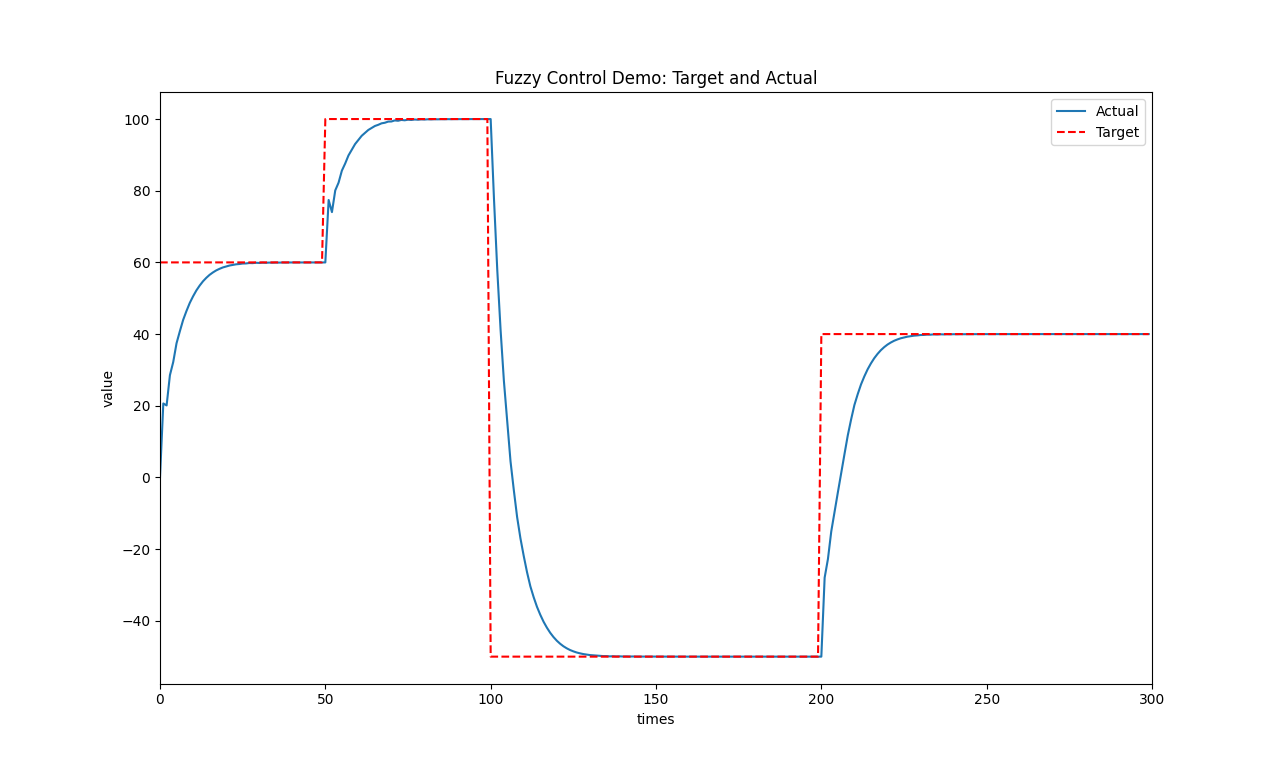
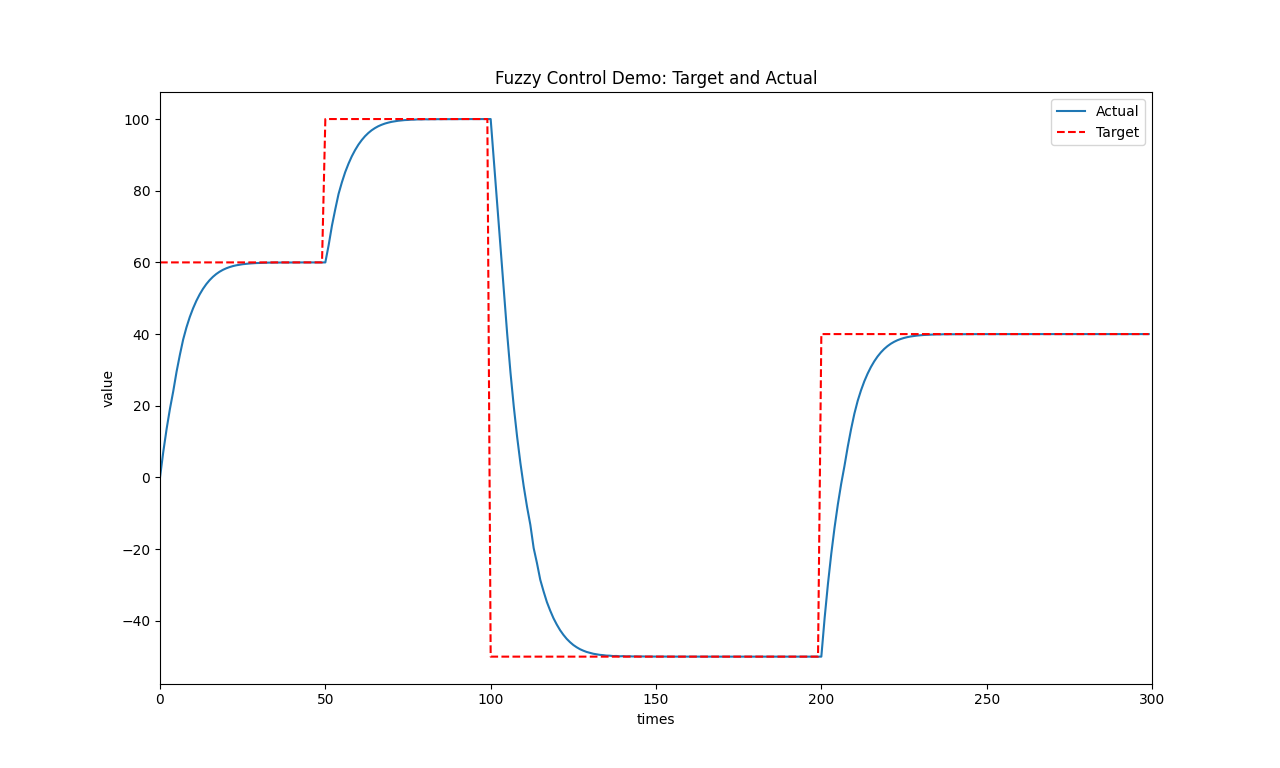
feat: The changes are listed following:
- Add an optional proportional controller to enhance system response time;
- Optimize the scaling factor that can be bigger when get larger error;
- Add 'warnmsg' and 'warnmsgln' for special needs of message output.

diff --git a/src/fuzzy_logic.cc b/src/fuzzy_logic.cc
@@ -49,7 +49,7 @@ void Fuzzification::fuzzify(scalar input) {
 
 void Fuzzification::setFactor(const scalar ratio, const bool reverse) {
     if (state_ != FuzzyProcess::FuzzyInit) {
-        dbgmsgln("[fuzzification] please init first");
+        warnmsgln("[fuzzification] please init first");
         return;
     }
 
@@ -62,12 +62,12 @@ void Fuzzification::setFactor(const scalar ratio, const bool reverse) {
 
 void Fuzzification::setBound(scalar bound) {
     if (state_ != FuzzyProcess::FuzzyInit) {
-        dbgmsgln("[fuzzification] please init first");
+        warnmsgln("[fuzzification] please init first");
         return;
     }
 
     if (bound < -eps) {
-        dbgmsgln("[fuzzification] 'bound' needs to be positive");
+        warnmsgln("[fuzzification] 'bound' needs to be positive");
         return;
     }
 
@@ -95,6 +95,8 @@ FuzzyLogic::FuzzyLogic(int resolution)
     e  = std::make_unique<Fuzzification>("e");
     ec = std::make_unique<Fuzzification>("ec");
     u  = std::make_unique<Fuzzification>("u");
+
+    p_ctrl_ = std::make_unique<PController>();
 }
 
 FuzzyLogic::~FuzzyLogic() {}
@@ -119,9 +121,20 @@ void FuzzyLogic::rangeCheck(scalar& input, Membership* ptr) {
     }
 }
 
+bool FuzzyLogic::controllerSwitchCheck(void) {
+    scalar ratio = 1 / 2.5;
+    if (control_.err > e->membership_->getMaximum() * ratio || control_.err < e->membership_->getMinimum() * ratio) {
+        return true;
+    } else if (control_.d_err > ec->membership_->getMaximum() * ratio || control_.d_err < ec->membership_->getMinimum() * ratio) {
+        return true;
+    }
+
+    return false;
+}
+
 static size_t iter = 0;
-scalar FuzzyLogic::algo(Control_t input, bool show_control_info) {
-    scalar output, err, d_err;
+scalar FuzzyLogic::algo(const Control_t input, bool use_p_ctrl, const scalar output_scale) {
+    scalar output, defuzzify_output, err, d_err;
 
     // TODO: input may out of max bound, acquiring limitation for scaling.
     // calculate the basic control params and normalize them to discourse range
@@ -132,27 +145,36 @@ scalar FuzzyLogic::algo(Control_t input, bool show_control_info) {
     control_.d_err    = ec->getFactor() * (fabs(d_err) > ec->getBound() ? sign(err) * ec->getBound() : d_err);
     control_.prev_err = fabs(err) > e->getBound() ? sign(err) * e->getBound() : err;
 
-    // ensure the factor will not make e or ec out of range
-    rangeCheck(control_.err, e->membership_.get());
-    rangeCheck(control_.d_err, ec->membership_.get());
+    if (use_p_ctrl && controllerSwitchCheck()) {
+        output = p_ctrl_->algo(control_.err);
+    } else {
+        // ensure the factor will not make e or ec out of range
+        rangeCheck(control_.err, e->membership_.get());
+        rangeCheck(control_.d_err, ec->membership_.get());
 
-    e->fuzzify(control_.err);
-    ec->fuzzify(control_.d_err);
+        e->fuzzify(control_.err);
+        ec->fuzzify(control_.d_err);
 
-    inference();
+        inference();
 
-    output = defuzzify() * u->getFactor();
+        defuzzify_output = defuzzify();
+
+        if (fabs(output_scale) > 1.0 && fabs(defuzzify_output) > 1.0) {
+            output = sign(defuzzify_output) * pow(fabs(defuzzify_output), output_scale) * u->getFactor();
+        } else {
+            output = defuzzify_output * u->getFactor();
+        }
+    }
 
     if (output >= u->getBound()) output = u->getBound();
     if (output <= -u->getBound()) output = -u->getBound();
 
-    if (show_control_info) {
-        if (iter == 0) {
-            dbgmsgln("Times    Target    Actual    Error    DError    PError");
-        }
-        dbgmsgln("%04llu     %06.2f    %06.2f    %06.3f   %06.3f    %06.3f",
-            iter++, input.target, input.actual, control_.err, control_.d_err, control_.prev_err);
+    // control info
+    if (iter == 0) {
+        dbgmsgln("Times    Target    Actual    Error    DError    PError");
     }
+    dbgmsgln("%04llu     %06.2f    %06.2f    %06.3f   %06.3f    %06.3f",
+        iter++, input.target, input.actual, control_.err, control_.d_err, control_.prev_err);
 
 #if FC_USE_MATPLOTLIB
     control_plot_.emplace_back(Control_t{input.target, input.actual});

diff --git a/src/pid.cc b/src/pid.cc
@@ -1,0 +1,76 @@
+#include "fuzzy/pid.h"
+
+using namespace fc;
+
+PController::PController() : Kp_(0) {}
+PController::~PController() {}
+
+scalar PController::algo(const scalar err) {
+    return Kp_ * err;
+}
+
+void PController::setProportional(const scalar Kp) {
+    if (Kp < -fc::eps) {
+        warnmsgln("[PController] input Kp is negative and it will be set to zero");
+        Kp_ = 0.0;
+    }
+    Kp_ = Kp;
+}
+
+PIDController::PIDController()
+    : prev_err_(0),
+      pid_(PID_t{0, 0, 0}),
+      integral_prev_(0),
+      integral_saturation_(0) {}
+
+PIDController::~PIDController() {}
+
+scalar PIDController::algo(const scalar err) {
+    scalar proportional, integral, derivative , output;
+
+    // u_p  = P *e(k)
+    proportional = pid_.Kp * err;
+
+    // Tustin transform of the integral part
+    // u_ik = u_ik_1  + I*Ts/2*(ek + ek_1)
+    integral = integral_prev_ + pid_.Ki * (err + prev_err_) * 0.5;
+
+    if (integral > fabs(integral_saturation_)) {
+        integral = fabs(integral_saturation_);
+    }
+    if (integral < -fabs(integral_saturation_)) {
+        integral = -fabs(integral_saturation_);
+    }
+
+    // u_dk = D(ek - ek_1)/Ts
+    derivative = pid_.Kd * (err - prev_err_);
+
+    output = proportional + integral + derivative;
+
+    // save data for next control period
+    integral_prev_ = integral;
+    prev_err_      = err;
+
+    return output;
+}
+
+void PIDController::setPIDParams(const PID_t pid) {
+    if (pid.Kp < -fc::eps) {
+        warnmsgln("[PIDController] input Kp is negative and it will be set to zero");
+        pid_.Kp = 0.0;
+    }
+
+    if (pid.Ki < -fc::eps) {
+        warnmsgln("[PIDController] input Ki is negative and it will be set to zero");
+        pid_.Ki = 0.0;
+    }
+
+    if (pid.Kd < -fc::eps) {
+        warnmsgln("[PIDController] input Kd is negative and it will be set to zero");
+        pid_.Kd = 0.0;
+    }
+}
+
+void PIDController::clearIntegralPrev(void) {
+    integral_prev_ = 0.0;
+}

diff --git a/include/fuzzy/fuzzy_logic.h b/include/fuzzy/fuzzy_logic.h
@@ -13,6 +13,7 @@
 #include "utils/base.h"
 #include "utils/operation.h"
 #include "fuzzy/membership.h"
+#include "fuzzy/pid.h"
 #include "Eigen/Eigen"
 
 #include <unordered_map>
@@ -86,7 +87,7 @@ class FuzzyLogic {
         FuzzyLogic(int resolution = 200);
         ~FuzzyLogic();
 
-        scalar algo(Control_t input, bool show_control_info = false);
+        scalar algo(const Control_t input, bool use_p_ctrl = false, const scalar output_scale = 1.0);
         void setFuzzyRules(const Matrix &rule_table);
         void getInfo(void);
 
@@ -103,11 +104,13 @@ class FuzzyLogic {
         std::unique_ptr<Fuzzification> ec;
         std::unique_ptr<Fuzzification> u;
 
+        std::unique_ptr<PController> p_ctrl_;
     private:
         void inference(void);
         scalar defuzzify(void);
         CentroidPair centroid(size_t rule_id, scalar truncation_premise);
         void rangeCheck(scalar& input, Membership* ptr);
+        bool controllerSwitchCheck(void);
 
         int resolution_;
         Matrix rule_table_;

diff --git a/include/fuzzy/pid.h b/include/fuzzy/pid.h
@@ -1,0 +1,54 @@
+/**
+ * @file pid.h
+ * @author HangX-Ma (contour.9x@gmail.com)
+ * @brief Fuzzy logic
+ * @version 0.1
+ * @date 2023-08-28
+ */
+
+#ifndef __FC_FUZZY_PID__H__
+#define __FC_FUZZY_PID__H__
+
+#include "utils/base.h"
+#include "utils/operation.h"
+
+namespace fc {
+
+class PController {
+    public:
+        PController();
+        ~PController();
+
+        scalar algo(const scalar err);
+
+        void setProportional(const scalar Kp);
+    private:
+        scalar Kp_;
+};
+
+typedef struct PID {
+    scalar Kp;
+    scalar Ki;
+    scalar Kd;
+} PID_t;
+
+class PIDController {
+    public:
+        PIDController();
+        ~PIDController();
+
+        scalar algo(const scalar err);
+
+        void setPIDParams(const PID_t pid);
+        void clearIntegralPrev(void);
+
+        scalar prev_err_;
+    private:
+        PID_t pid_;
+        scalar integral_prev_;
+        scalar integral_saturation_;
+};
+
+}
+
+#endif  //!__FC_FUZZY_PID__H__

diff --git a/include/utils/base.h b/include/utils/base.h
@@ -60,12 +60,20 @@ namespace fc {
 #endif
 
 #ifdef FC_USE_INFO_MSG
-#define infomsg(fmt, ...) printf(ANSI_COLOR_YELLOW "[INFO]" fmt ANSI_COLOR_RESET, ##__VA_ARGS__)
-#define infomsgln(fmt, ...) printf(ANSI_COLOR_YELLOW "[INFO]" fmt ANSI_COLOR_RESET"\n", ##__VA_ARGS__)
+#define infomsg(fmt, ...) printf(ANSI_COLOR_GREEN "[INFO]" fmt ANSI_COLOR_RESET, ##__VA_ARGS__)
+#define infomsgln(fmt, ...) printf(ANSI_COLOR_GREEN "[INFO]" fmt ANSI_COLOR_RESET"\n", ##__VA_ARGS__)
 #else
 #define infomsg(fmt, ...)
 #define infomsgln(fmt, ...)
 #endif
+
+#ifdef  FC_USE_WARN_MSG
+#define warnmsg(fmt, ...) printf(ANSI_COLOR_YELLOW "[WARN]" fmt ANSI_COLOR_RESET, ##__VA_ARGS__)
+#define warnmsgln(fmt, ...) printf(ANSI_COLOR_YELLOW "[WARN]" fmt ANSI_COLOR_RESET"\n", ##__VA_ARGS__)
+#else
+#define warnmsg(fmt, ...)
+#define warnmsgln(fmt, ...)
+#endif  //FC_USE_WARN_MSG
 
 /* basic type definition */
 #ifdef FC_USE_FLOAT

diff --git a/src/demo.cc b/src/demo.cc
@@ -73,6 +73,8 @@ int main (int argc,char *argv[]) {
     fuzzy.ec->plotMembershipFunctions();
     fuzzy.u->plotMembershipFunctions();
 
+    fuzzy.p_ctrl_->setProportional(4.0);
+
     // DON'T CHANGE FACTOR RATIO OUT OF RANGE!
     fuzzy.u->setFactor(2.0, true);
 
@@ -94,7 +96,7 @@ int main (int argc,char *argv[]) {
         } else if (i == 200) {
             control.target = 40.0;
         }
-        control.actual += fuzzy.algo(control, true);
+        control.actual += fuzzy.algo(control, true, 1.6);
     }
 
     fuzzy.plotControl("_constant");
@@ -117,7 +119,7 @@ int main (int argc,char *argv[]) {
         } else if (i <= 5 * 360) {
             control.target = 25 * sin(i * M_PI / 720);
         }
-        control.actual += fuzzy.algo(control, true);
+        control.actual += fuzzy.algo(control, true, 1.6);
     }
 
     fuzzy.plotControl("_sine");

diff --git a/src/membership.cc b/src/membership.cc
@@ -80,7 +80,7 @@ void Membership::setMembershipParam(const membershipType type,
     std::vector<scalar> param_set;
 
     if (params_num % size != 0) {
-        printf("[membership error] membership type: %d, param number: %d\n", size, params_num);
+        warnmsgln("[membership error] membership type: %d, param number: %d", size, params_num);
         throw std::length_error("[membership error] parameters number mismatches");
     }
 

diff --git a/README.md b/README.md
@@ -2,6 +2,15 @@
 
 Realize the basic function of fuzzy logic controller. User can select _Triangle_, _Trapezoid_, _Gaussian_ membership functions to do **fuzzification**. The **inference** process will select the highest weight rule, if exist some rules that points to the same output discourse. _Centroid (COG)_ method is used to **defuzzification**.
 
+You can use _**P-FC**_ controller that combines _proportional controller_ with _fuzzy controller_. This will enhance the system response time and accuracy when input _error_ or _error rate_ high.
+
+<div align="center">
+    <img src="assets/fzc_design.svg" alt="Fuzzy logic controller design, HangX-Ma" width=600 />
+    <br>
+    <font size="2" color="#999"><u>Fuzzy logic controller design, HangX-Ma</u></font>
+    <br></br>
+</div>
+
 ## Environment
 
 - Python3.11, matplotlib-3.7.1
